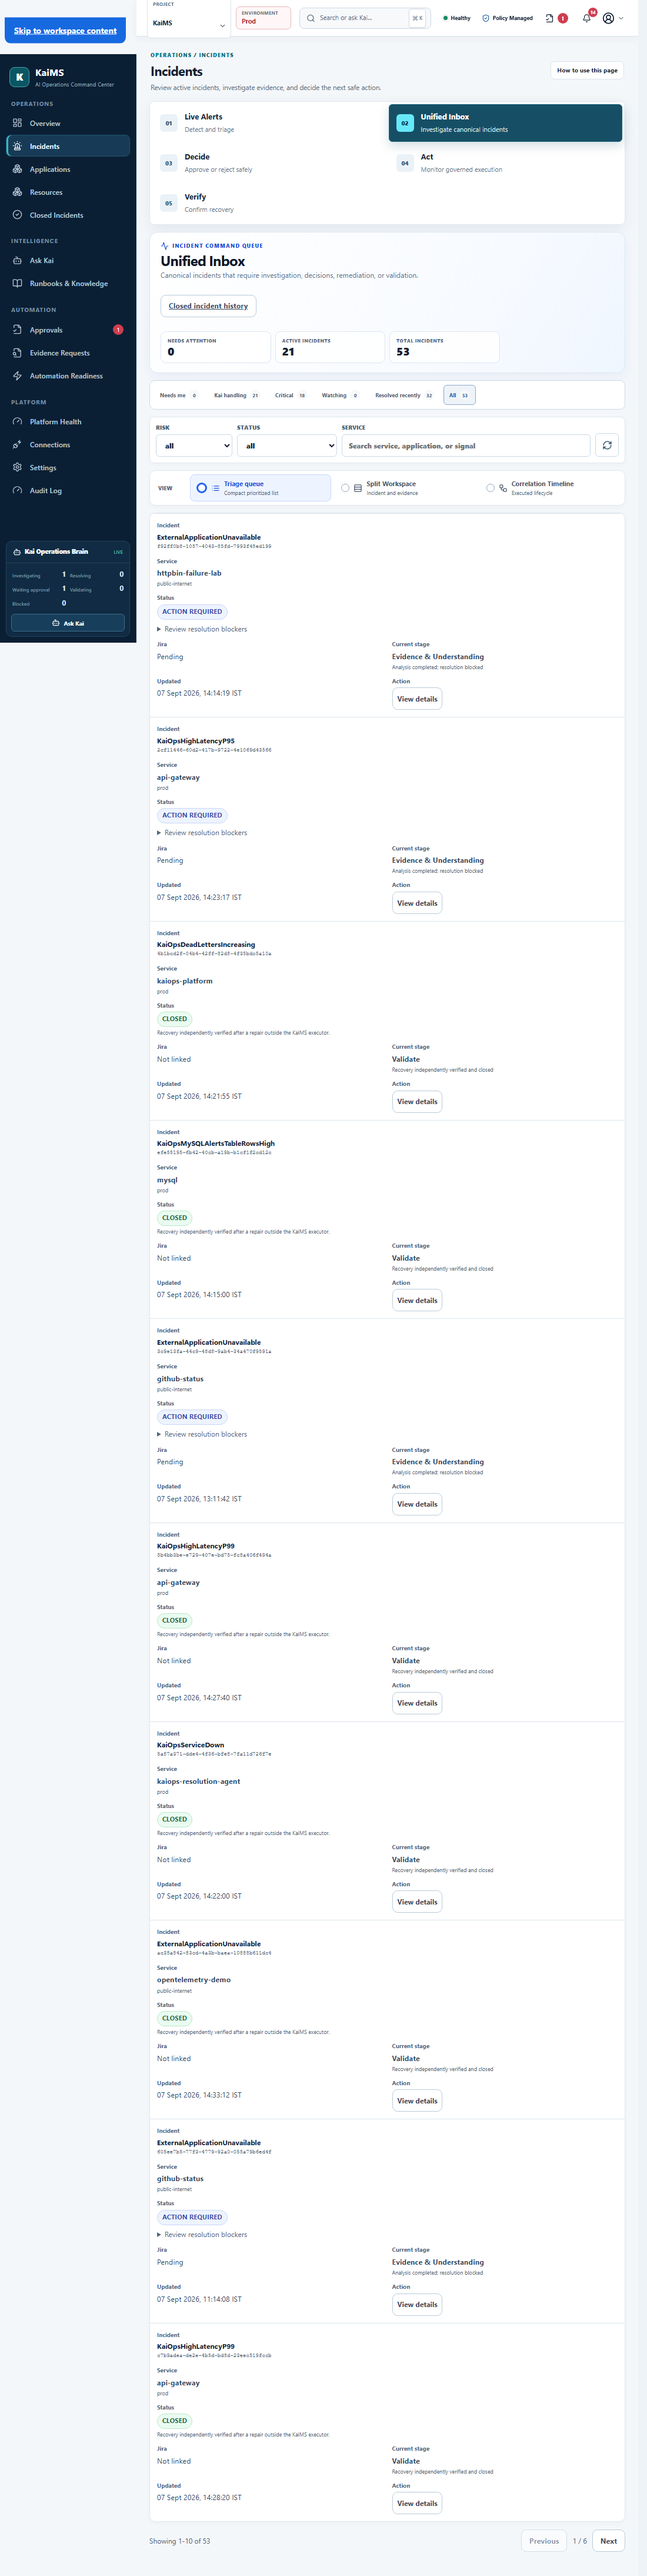
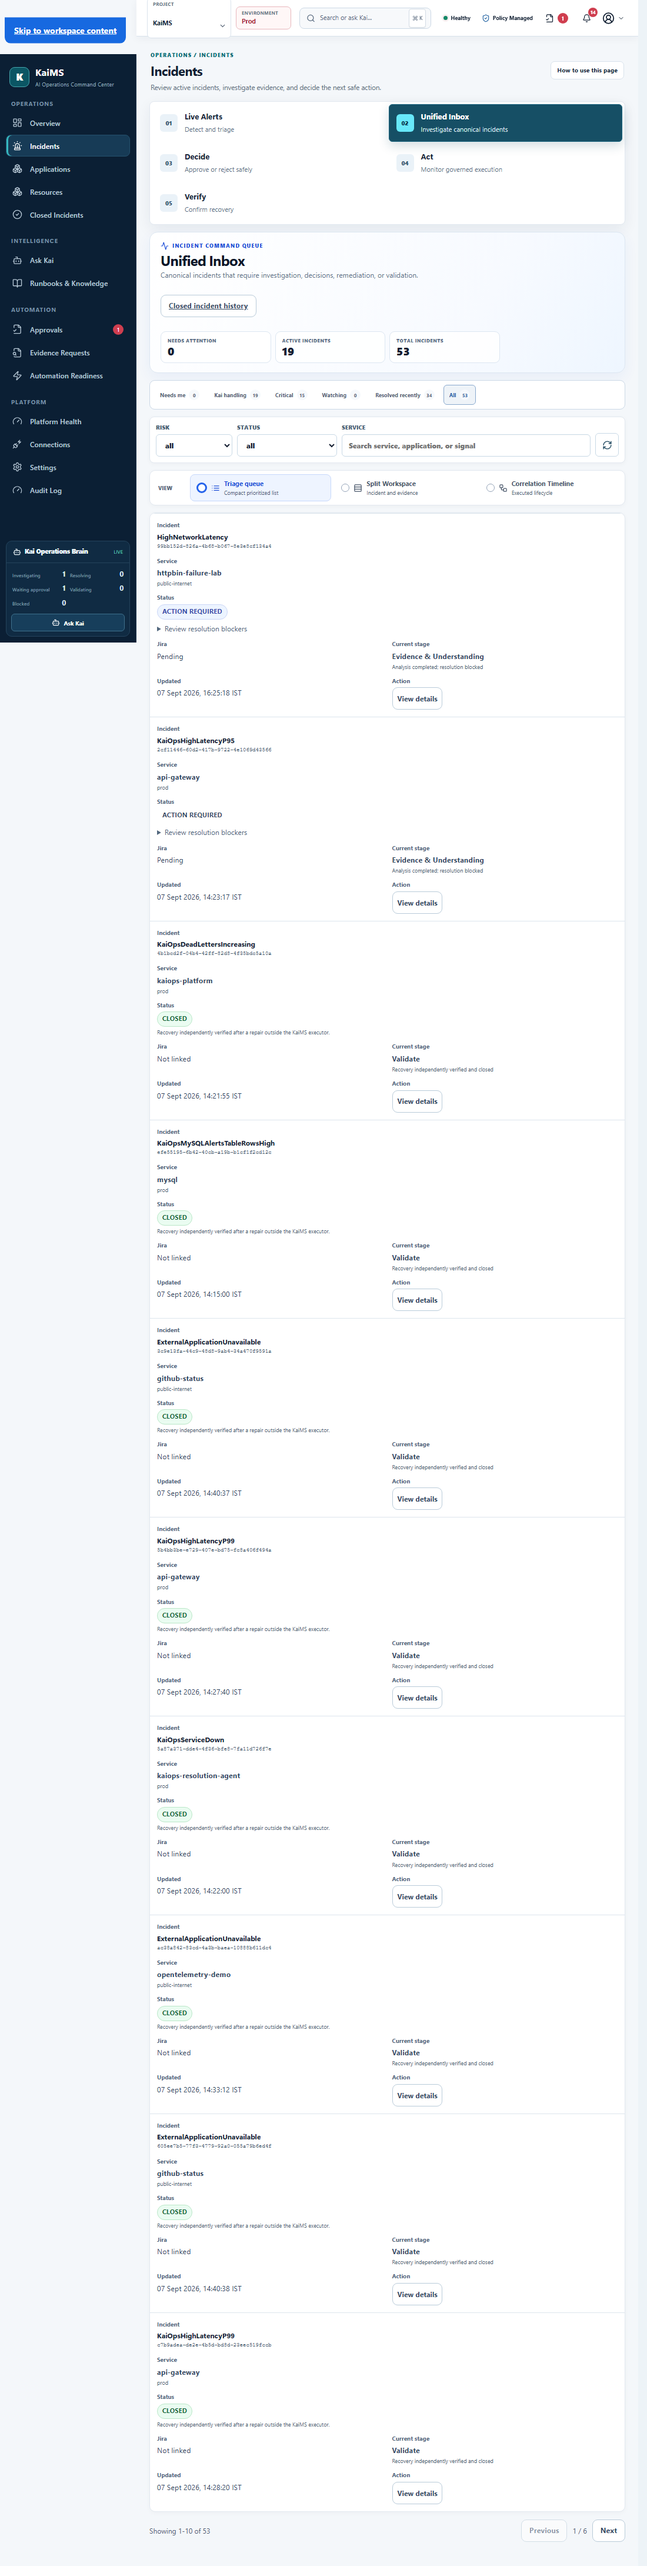
Tune incident payloads and caching and expose human escalation

diff --git a/frontend/react/src/features/incidents/IncidentCommand.tsx b/frontend/react/src/features/incidents/IncidentCommand.tsx
@@ -1,3 +1,4 @@
+import HumanEscalation from "./HumanEscalation";
 import { useEffect, useMemo, useState, type ReactNode } from "react";
 import { useNavigate, useParams } from "react-router-dom";
 import {
@@ -565,6 +566,7 @@ export default function IncidentCommand() {
         <section className="ic-kai-panel"><header><span><Bot aria-hidden="true" />Kai intelligence</span><i>{inFailure ? "Attention" : isTerminal ? technicalRecovery ? "Recovered" : "Closed" : "Live context"}</i></header><div className="ic-kai-state"><Sparkles aria-hidden="true" /><span><small>Current state</small><strong>{isTerminal ? technicalRecovery ? "Recovery recorded" : "Closure recorded" : status.replaceAll("_", " ")}</strong></span></div></section>
         <section className="ic-narrative"><header><span>{isTerminal ? "Recorded history" : "Live narrative"}</span><h3>{isTerminal ? "Incident and closure timeline" : "What Kai knows so far"}</h3></header>{timeline.length ? <ol>{timeline.map((event, index) => <li key={`${event.title}-${index}`}><time>{dateLabel(event.at)}</time><i /><div><strong>{event.title}</strong><p>{event.detail}</p></div></li>)}</ol> : <p>No timestamped lifecycle events are available.</p>}<small>Only recorded lifecycle events are shown; internal agent activity is not fabricated.</small></section>
         <section className="ic-evidence"><header><span>Evidence provenance</span><h3>Sources supporting this view</h3></header><article><div><strong>{sourceName || "Incident service"}</strong><em>{!isTerminal && sourceTimestamp && Date.now() - (parseUtcTimestamp(sourceTimestamp)?.getTime() || 0) < 300_000 ? "LIVE" : "RECORDED"}</em></div><p>Collected {ageLabel(sourceTimestamp)}</p><small>Evidence ID: {text(row.alert_id, source.id, row.fingerprint, "Unavailable")}</small></article>{Object.keys(context).length || Object.keys(contextSnapshot).length ? <article><div><strong>Kai context record</strong><em>RECORDED</em></div><p>{contextEvidenceCount ? `${contextEvidenceCount} evidence records` : "Context evidence retained"}{contextQuality !== null ? ` · ${contextQuality}% quality` : ""}</p><small>{contextCollectedAt ? `Collected ${ageLabel(contextCollectedAt)}` : contextMetadata.recovered ? "Recovered from durable alert and recommendation records" : `Snapshot: ${text(contextSnapshot.snapshot_id, contextMetadata.context_fingerprint, "persisted")}`}</small></article> : null}{rootCause ? <article><div><strong>Kai analysis</strong><em className="is-inferred">INFERRED</em></div><p>{isTerminal ? "Historical causal analysis" : `Updated ${ageLabel(updatedTimestamp)}`}</p><small>Inference is visually separated from telemetry.</small></article> : null}</section>
+        {!isTerminal ? <HumanEscalation key={canonicalIncidentId} incidentId={canonicalIncidentId} service={text(row.service)} severity={text(row.severity, "medium")} accessToken={session.accessToken} onEscalated={refreshIncident} /> : null}
         {!isTerminal ? <section className="ic-control"><header><PauseCircle aria-hidden="true" /><div><span>Human control</span><h3>Stay in command</h3></div></header><p>{executionReady ? "Holding, taking control, or rolling back requires an authoritative execution capability." : executionUnavailableReason}</p><button type="button" disabled={!executionReady} title={!executionReady ? executionUnavailableReason : undefined} onClick={() => incidents.openTechnical(row, "resolution")}><Gauge aria-hidden="true" /> {executionReady ? "Take control in governed workspace" : "No execution to control"}</button><button type="button" disabled title="Available only when the backend reports an active, controllable execution"><RotateCcw aria-hidden="true" /> Rollback unavailable</button></section> : null}
       </aside>
     </div>

diff --git a/frontend/react/src/features/incidents/HumanEscalation.tsx b/frontend/react/src/features/incidents/HumanEscalation.tsx
@@ -1,0 +1,56 @@
+import { useState, type FormEvent } from "react";
+
+interface Props {
+  incidentId: string;
+  service: string;
+  severity: string;
+  accessToken: string;
+  onEscalated: () => void | Promise<void>;
+}
+
+export default function HumanEscalation({ incidentId, service, severity, accessToken, onEscalated }: Props) {
+  const [reason, setReason] = useState("");
+  const [busy, setBusy] = useState(false);
+  const [message, setMessage] = useState("");
+  const [error, setError] = useState("");
+  const submit = async (event: FormEvent) => {
+    event.preventDefault();
+    if (busy || message || !accessToken || reason.trim().length < 10 || reason.trim().length > 4000) return;
+    setBusy(true); setError("");
+    try {
+      const response = await fetch(`/api-gateway/incidents/${encodeURIComponent(incidentId)}/escalate`, {
+        method: "POST",
+        headers: { Authorization: `Bearer ${accessToken}`, "Content-Type": "application/json" },
+        body: JSON.stringify({ comment: reason.trim(), service, severity, resource_names: service ? [service] : [] }),
+      });
+      const payload = await response.json().catch(() => ({}));
+      if (!response.ok) {
+        const detail = payload.detail;
+        throw new Error(typeof detail === "string" ? detail : detail?.message || payload.message || `Escalation failed (${response.status}).`);
+      }
+      const assignee = payload.assignment?.assignee;
+      if (payload.status !== "escalated" || !assignee) throw new Error("The server did not confirm a human assignment. Refresh the incident before trying again.");
+      setMessage(`Assigned to ${assignee}. Human handoff recorded; technical recovery has not been verified.`);
+      setReason("");
+    } catch (failure) {
+      setError(failure instanceof Error ? failure.message : "Human escalation failed.");
+      setBusy(false);
+      return;
+    }
+    setBusy(false);
+    // A refresh failure must not invite resubmission of an accepted handoff.
+    try { await onEscalated(); } catch { /* The recorded success remains visible. */ }
+  };
+  return <section className="ic-section ic-manual-close" aria-label="Human escalation">
+    <header><div><span>Human assistance</span><h3>Escalate to human agent</h3></div></header>
+    <p>Assign this incident to an on-duty responder for investigation. A successful handoff administratively closes this automation incident; it does not confirm recovery. If no responder is available, the incident remains open.</p>
+    <form onSubmit={(event) => void submit(event)}>
+      <label htmlFor="human-escalation-reason">Reason for escalation</label>
+      <textarea id="human-escalation-reason" rows={3} minLength={10} maxLength={4000} required value={reason} disabled={busy || Boolean(message)} onChange={(event) => setReason(event.target.value)} placeholder="Describe the blocker and what the human responder should investigate." />
+      <p>Administrator or HITL Approver access is required. Include at least 10 characters.</p>
+      <button type="submit" className="button-primary" disabled={busy || Boolean(message) || !accessToken || reason.trim().length < 10}>{busy ? "Assigning human responder?" : "Escalate to human agent"}</button>
+    </form>
+    {message ? <p role="status">{message}</p> : null}
+    {error ? <p className="error" role="alert">{error}</p> : null}
+  </section>;
+}

diff --git a/frontend/react/src/features/incidents/HumanEscalation.test.tsx b/frontend/react/src/features/incidents/HumanEscalation.test.tsx
@@ -1,0 +1,40 @@
+// @vitest-environment jsdom
+import { cleanup, fireEvent, render, screen } from "@testing-library/react";
+import { afterEach, expect, it, vi } from "vitest";
+import HumanEscalation from "./HumanEscalation";
+
+afterEach(() => { cleanup(); vi.unstubAllGlobals(); });
+const props = { incidentId: "incident-1", service: "mysql", severity: "high", accessToken: "test-token", onEscalated: vi.fn() };
+function fillAndSubmit() {
+  fireEvent.change(screen.getByLabelText("Reason for escalation"), { target: { value: "Please investigate the unavailable database" } });
+  fireEvent.click(screen.getByRole("button", { name: "Escalate to human agent" }));
+}
+it("requires a reason and confirms the assigned responder", async () => {
+  const fetchMock = vi.fn().mockResolvedValue({ ok: true, json: async () => ({ status: "escalated", assignment: { assignee: "responder@example.test" } }) });
+  vi.stubGlobal("fetch", fetchMock);
+  render(<HumanEscalation {...props} />);
+  expect((screen.getByRole("button") as HTMLButtonElement).disabled).toBe(true);
+  fillAndSubmit();
+  expect((await screen.findByRole("status")).textContent).toContain("responder@example.test");
+  const [url, options] = fetchMock.mock.calls[0];
+  expect(url).toBe("/api-gateway/incidents/incident-1/escalate");
+  expect(JSON.parse(options.body)).toEqual({ comment: "Please investigate the unavailable database", service: "mysql", severity: "high", resource_names: ["mysql"] });
+  expect(options.headers.Authorization).toBe("Bearer test-token");
+  expect((screen.getByRole("button") as HTMLButtonElement).disabled).toBe(true);
+});
+it.each([403, 409])("shows rejected handoff (%s) without claiming success", async (status) => {
+  const refreshed = vi.fn();
+  vi.stubGlobal("fetch", vi.fn().mockResolvedValue({ ok: false, status, json: async () => ({ detail: { message: "Human assignment is unavailable" } }) }));
+  render(<HumanEscalation {...props} onEscalated={refreshed} />);
+  fillAndSubmit();
+  expect((await screen.findByRole("alert")).textContent).toContain("Human assignment is unavailable");
+  expect(refreshed).not.toHaveBeenCalled();
+  expect(screen.queryByRole("status")).toBeNull();
+});
+it("keeps confirmed success when the follow-up refresh fails", async () => {
+  vi.stubGlobal("fetch", vi.fn().mockResolvedValue({ ok: true, json: async () => ({ status: "escalated", assignment: { assignee: "operator" } }) }));
+  render(<HumanEscalation {...props} onEscalated={async () => { throw new Error("refresh unavailable"); }} />);
+  fillAndSubmit();
+  expect((await screen.findByRole("status")).textContent).toContain("Assigned to operator");
+  expect(screen.queryByRole("alert")).toBeNull();
+});

diff --git a/frontend/react/tests/e2e/startup-performance.spec.js b/frontend/react/tests/e2e/startup-performance.spec.js
@@ -23,6 +23,8 @@ test("KaiMS starts without runtime errors and reaches an interactive login promp
 
 test("hashed production assets are compressed and immutable", async ({ request }) => {
   const index = await request.get("/");
+  expect(index.headers()["clear-site-data"]).toBeUndefined();
+  expect(index.headers()["cache-control"]).toContain("no-store");
   const html = await index.text();
   const assetPath = html.match(/<script[^>]+src="([^"]*\/assets\/[^"]+\.js)"/)?.[1];
   expect(assetPath).toBeTruthy();

diff --git a/backend/tests/test_incident_command_contract.py b/backend/tests/test_incident_command_contract.py
@@ -139,3 +139,42 @@ def test_command_workspace_revision_changes_with_lifecycle_version() -> None:
     )
 
     assert first.revision != second.revision
+
+
+def test_command_deduplicates_projection_without_changing_source_evidence():
+    import copy
+    context = {"metadata": {"evidence": [{"id": "e1", "value": "x" * 10000}]}}
+    recommendation = {"root_cause": "Recorded hypothesis"}
+    incident = {
+        "incident_id": "incident-1", "context": context,
+        "recommendation": recommendation,
+        "projection_payload": {
+            "context": copy.deepcopy(context), "context_metadata": copy.deepcopy(context["metadata"]),
+            "recommendation": copy.deepcopy(recommendation), "status": "closed",
+            "incident_lifecycle": {"assessment_id": "assessment-1"},
+        },
+    }
+    original = copy.deepcopy(incident)
+    command = build_incident_command_workspace(
+        incident_id="incident-1", incident=incident, operations={"incident_id": "incident-1"},
+    )
+    assert incident == original
+    assert command.incident["context"] == context
+    assert command.incident["recommendation"] == recommendation
+    assert command.incident["projection_payload"] == {
+        "status": "closed", "incident_lifecycle": {"assessment_id": "assessment-1"},
+    }
+
+
+def test_command_preserves_distinct_and_projection_only_evidence():
+    incident = {
+        "incident_id": "incident-1", "context": {"metadata": {"version": 2}},
+        "projection_payload": {
+            "context": {"metadata": {"version": 1}}, "context_metadata": {"version": 1},
+            "recommendation": {"root_cause": "Historical hypothesis"},
+        },
+    }
+    command = build_incident_command_workspace(
+        incident_id="incident-1", incident=incident, operations={"incident_id": "incident-1"},
+    )
+    assert command.incident == incident

diff --git a/backend/src/common/common/incident_command_contract.py b/backend/src/common/common/incident_command_contract.py
@@ -90,6 +90,25 @@ class IncidentCommandWorkspace(BaseModel):
 def build_incident_command_workspace(
     *, incident_id: str, incident: dict[str, Any], operations: dict[str, Any]
 ) -> IncidentCommandWorkspace:
+    # The command page reads canonical top-level context/recommendation. Older
+    # lifecycle projections also embed identical copies (including metadata).
+    # Remove only exact duplicates from this read model, never stored evidence
+    # or distinct historical projections; avoid copying multi-MB nested values.
+    projection = incident.get("projection_payload")
+    if isinstance(projection, dict):
+        projection = dict(projection)
+        for key in ("context", "recommendation"):
+            if key in incident and key in projection and projection[key] == incident[key]:
+                projection.pop(key)
+        context_value = incident.get("context")
+        if (
+            isinstance(context_value, dict)
+            and "metadata" in context_value
+            and "context_metadata" in projection
+            and projection["context_metadata"] == context_value["metadata"]
+        ):
+            projection.pop("context_metadata")
+        incident = {**incident, "projection_payload": projection}
     normalized_incident_id = str(incident_id or "").strip()
     workspace = operations.get("investigation_workspace")
     workspace = workspace if isinstance(workspace, dict) else {}

diff --git a/docs/architecture/kaims-e2e-tuning-2026-09-07.md b/docs/architecture/kaims-e2e-tuning-2026-09-07.md
@@ -1,0 +1,37 @@
+# KaiMS end-to-end tuning ? 7 September 2026
+
+Deployed a smaller incident command response and corrected browser asset caching.
+The command response removes only projection context, context metadata and
+recommendation copies that exactly equal the canonical top-level values.
+Distinct historical projections, validation samples and stored evidence remain
+unchanged. Source objects are not mutated. Regression cases verify both paths.
+
+Removed `Clear-Site-Data: "cache"` from HTML responses, which otherwise evicted
+hashed assets on each navigation/reload. HTML still uses no-store; hashed assets
+remain immutable and compressed. Browser tests enforce both cache contracts.
+
+## Measurements and verification
+
+- Exact platform incident response: 4,082,359 ? 1,604,925 bytes, a 60.7% reduction
+  before transport compression. Five-request latency samples varied; this run
+  does not establish a latency improvement.
+- 68 services running; two one-shot initialization jobs exited. No unhealthy
+  services, and no sampled errors in the seven core pipeline service logs.
+- Broker: zero ready and dead-letter messages; one resolution message in flight
+  at the sample; that resolution queue returned to zero on follow-up. Absence of Prometheus queue series was cross-checked directly
+  with RabbitMQ rather than treated as proof of empty queues.
+- 130 lifecycle/recovery/database regression tests and nine command tests pass.
+- Two production browser startup/cache tests pass.
+- Live history shows all 99 previously verified batch closures among 135 rows;
+  pagination works and the inbox does not overflow at 1100px.
+- Exact incident detail retains six recovery checks and all 11 sample rows for
+  the expanded check, a Closed milestone, and collapsed historical investigation.
+- Production gateway/UI builds and bundle budgets pass; git diff --check passes.
+
+No new live failure was injected: lifecycle transitions were exercised in
+regression fixtures and existing persisted recovery evidence was verified live.
+The intentional httpbin 503 probe and external ParaBank latency alerts remain;
+monitoring also reports idle SSE clients and low traffic. These are not evidence
+of a stalled closure pipeline. No thresholds were relaxed or tickets force-closed.
+
+Raw measurement summaries: [JSON](kaims-e2e-tuning-2026-09-07.json).
